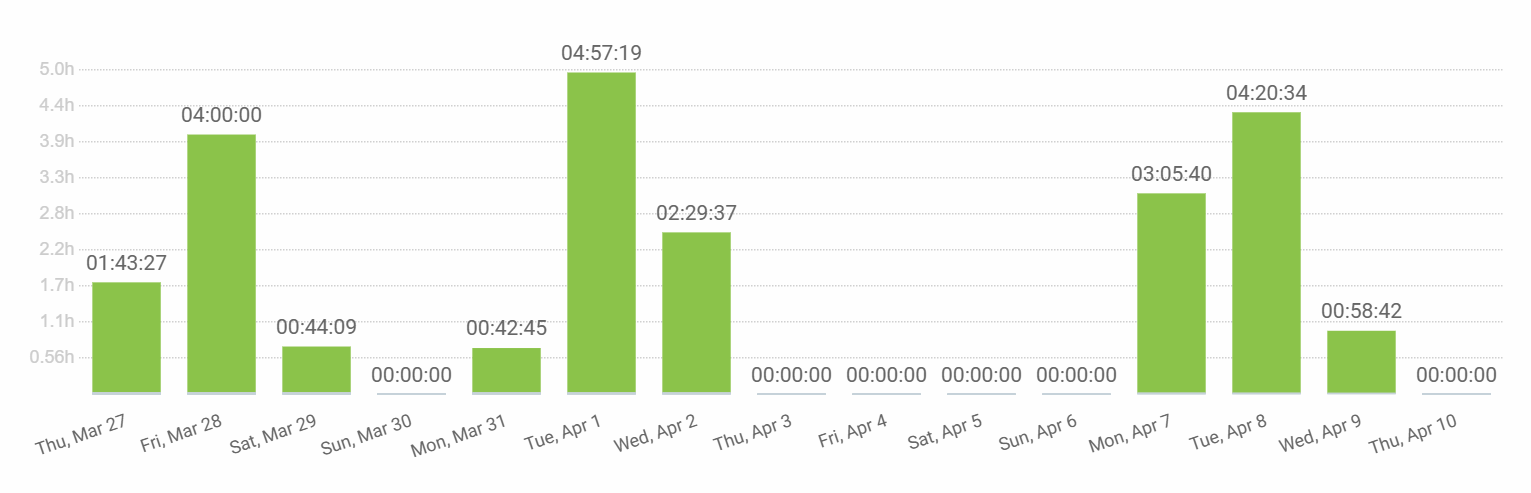
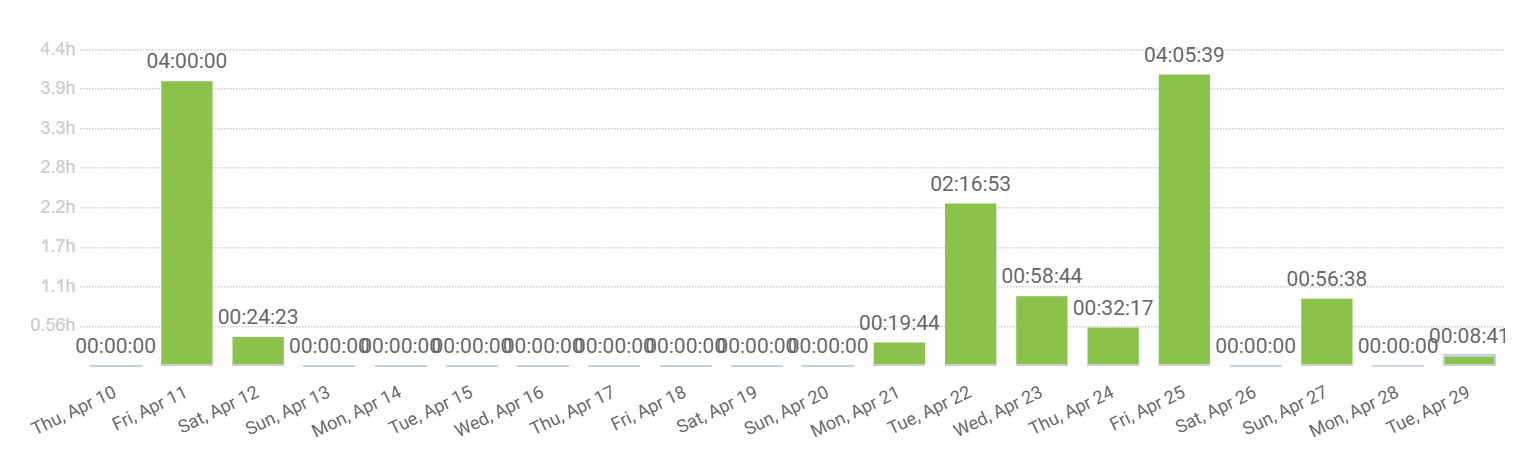
docs(timeEffort): add timeEffort Fernando

diff --git a/docs/PPL/timeEffortReport.md b/docs/PPL/timeEffortReport.md
@@ -37,6 +37,8 @@
 |-------------|---------------|---------------------------|-------------------------|
 | 29/04/2025  | v 1.0         | Versión inicial del documento - Parte de Dani | Daniel Flores de Francisco |
 | 29/04/2025  | v 1.1         | Parte de Andrés | Andrés Martínez Reviriego |
+| 29/04/2025  | v 1.2         | Parte de Fernando | Fernando Castelló Sánchez |
+
 
 ---
 
@@ -267,24 +269,24 @@
 
 ## Reporte de tiempo de Fernando Castelló Sanchez
 
-**Periodo:** 27/03/2025 - 10/04/2025
-**Total de tiempo trabajado:** 23:02:13
+**Periodo:** 10/04/2025 - 29/04/2025
+**Total de tiempo trabajado:** 13:42:59
 
 ### Proyecto Pawtel - Distribución del tiempo
 
 | Descripción | Duración |
 |-------------|---------|
-| revision.md | 01:43:27 |
 | Clase | 04:00:00 |
-| Feedback | 00:44:09 |
-| Frontend | 00:42:45 |
-| Pantalla CRUD | 04:57:19 |
-| Pantalla CRUD | 00:12:39 |
-| Pantalla admin | 02:16:58 |
-| Pantalla admin | 03:05:40 |
-| Pantalla admin | 04:20:34 |
-| revision.md | 00:50:31 |
-| Informe IA | 00:08:11 |
+| Feedback | 00:24:23 |
+| Presentación | 00:19:44 |
+| Presentación | 02:16:53 |
+| Presentación | 00:58:44 |
+| Presentación | 00:32:17 |
+| Presentación | 00:05:19 |
+| Clase | 04:00:00 |
+| Feedback | 00:28:31 |
+| Presentación | 00:28:07 |
+| Informe IA | 00:08:41 |
 
 
 ![grafico-de-tiempos](graficas/fernando.png)
